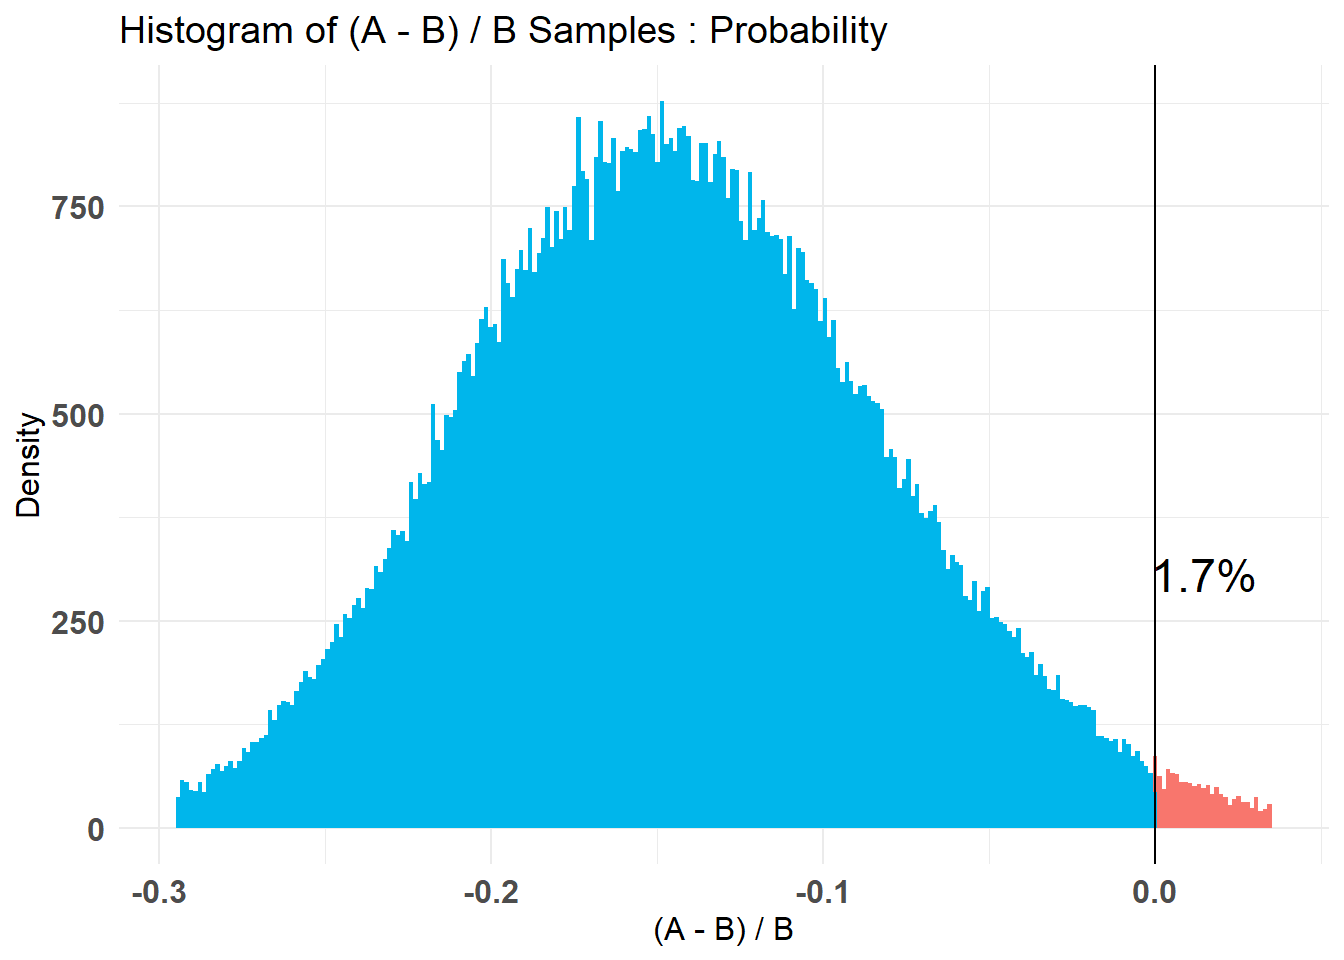
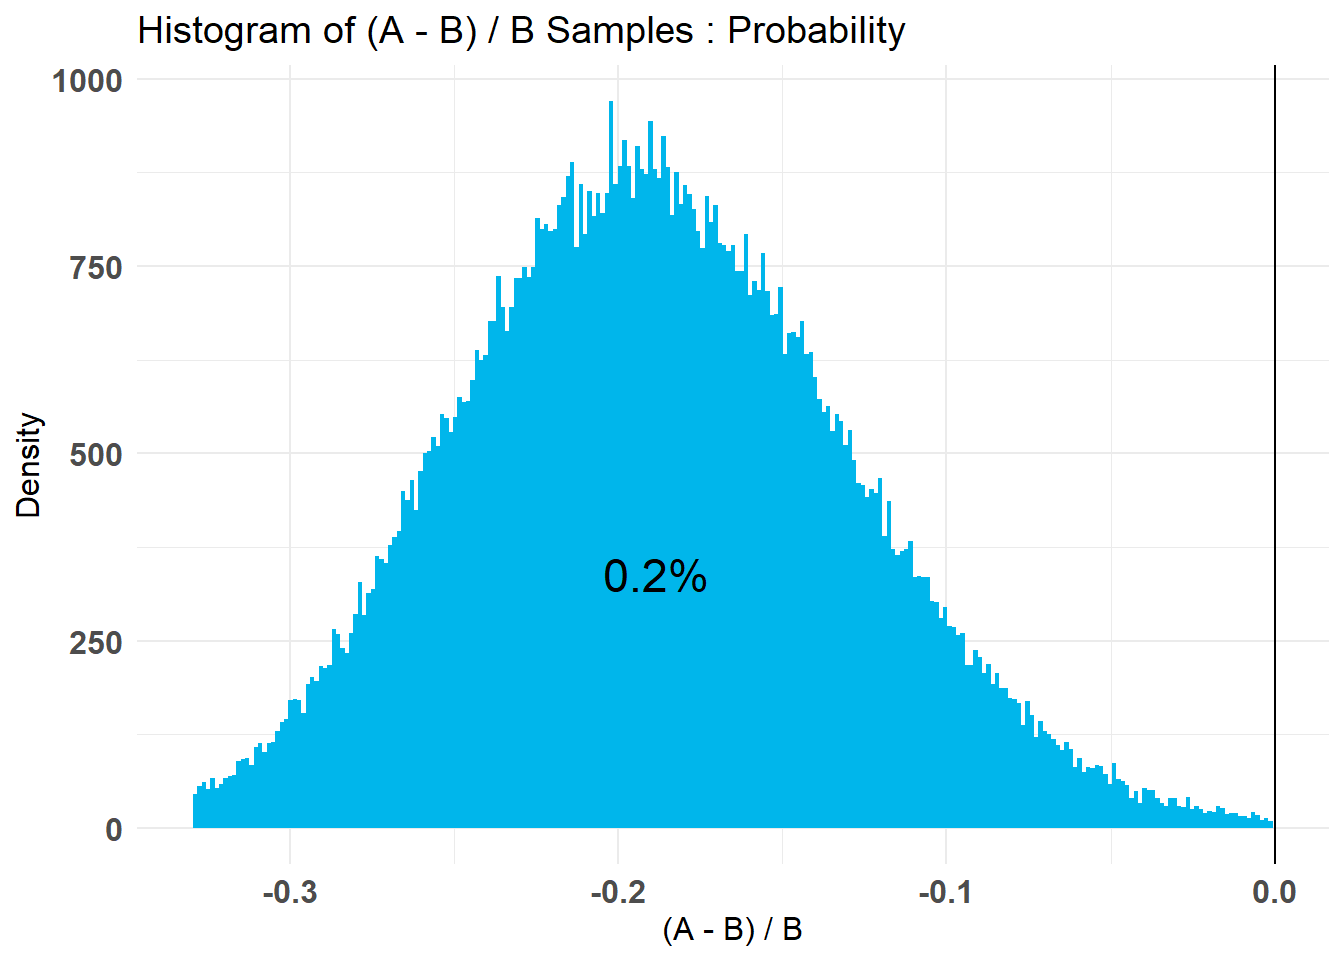
Atualizações

diff --git a/RegressaodoComPrincipal.html b/RegressaodoComPrincipal.html
@@ -437,11 +437,41 @@ div.tocify {
 
 
 <hr />
-<div id="resumo" class="section level1">
-<h1>Resumo</h1>
+<div id="resumo" class="section level2">
+<h2>Resumo</h2>
 <p>Este tutorial replica o conteúdo presente em Maddala, p. 150-153, 2001, com algumas adaptações.</p>
 <p>O método dos componentes principais é uma das opções para solução deste problema, <a href="https://drsimonj.svbtle.com/ridge-regression-with-glmnet">bem como a regressão ridge</a> que pode ser feita no R ou veja aqui sobre a <a href="https://www.youtube.com/watch?v=CJIfmy2ws68">Regressão Ridge no Eviews:</a></p>
-<p>*Algumas estimativas podem ser diferentes provavelmente pelas omissões de detalhes a este respeito do próprio autor ou pelos métodos empregados pelo uso de diferentes softwares.</p>
+<p><em>Algumas estimativas podem ser diferentes provavelmente pelas omissões de detalhes a este respeito do próprio autor ou pelos métodos empregados pelo uso de diferentes softwares.</em></p>
+<hr />
+</div>
+<div id="introdução" class="section level2">
+<h2>Introdução</h2>
+<p>Algumas ações corretivas podem ser empregadas para a multicolinearidade, mas agora normalmente, elas provocam alterações nos modelos. Possíveis ações corretivas para a multicolinearidade são:</p>
+<ol style="list-style-type: lower-alpha">
+<li>Omitir uma ou mais variáveis independentes altamente correlacionadas e identificar outras para ajudar na previsão:</li>
+</ol>
+<p><em>Advertências</em></p>
+<ul>
+<li><p>Pode causar um erro de especificação ou regressões com poder preditivo baixo.</p></li>
+<li><p>Pode deixar de fora variáveis que são importantes para o estudo</p></li>
+</ul>
+<ol start="2" style="list-style-type: lower-alpha">
+<li>Utilizar o modelo de regressão com variáveis independentes muito correlacionadas apenas para fazer previsões.</li>
+</ol>
+<p><em>Advertências</em></p>
+<ul>
+<li><p>Não tente interpretar os coeficientes de regressão</p></li>
+<li><p>O conjunto de variáveis explicativas pode perder poder explicativo.</p></li>
+</ul>
+<p>E, ainda:</p>
+<ol start="3" style="list-style-type: lower-alpha">
+<li><p>Utilizar as correlações simples para compreender a relação entre variáveis dependentes e independentes</p></li>
+<li><p>Usar informação <em>a priori</em> sobre o valor da estimativa dos parâmetros obtida de estudos prévios, prevenindo que o pesquisador aceita parâmetros incorretos.</p></li>
+<li><p>Transformar a relação funcional (por exemplo, elevando as variáveis ao quadrado ou extraindo o logaritmo).</p></li>
+<li><p>Utilizar o método de seleção de variáveis stepwise</p></li>
+<li><p>Verificar a existência de <em>outliers</em></p></li>
+<li><p>Aumentar o tamanho da amostra.</p></li>
+</ol>
 <hr />
 </div>
 <div id="regressão-do-componente-principal" class="section level1">

diff --git a/TesteABnoR.html b/TesteABnoR.html
@@ -465,7 +465,7 @@ div.tocify {
 </table>
 <p><em>Hipótese nula</em>: suposição de que não há diferença entre as taxas de conversão dos produtos A e B</p>
 <p><em>Hipótese alternativa</em>: há uma diferença entre as taxas de conversão dos produtos A e B</p>
-<p>Para rejeitar a hipótese nula, precisamos de um valor-<span class="math inline">\(p\)</span> menor que o nível de significância, ou seja, p$ &lt;0,05$</p>
+<p>Para rejeitar a hipótese nula, precisamos de um valor- <em>p</em> menor que o nível de significância, ou seja, <em>p</em> <span class="math inline">\(&lt;0,05\)</span></p>
 <pre class="r"><code>#install.packages(&quot;pwr&quot;)
 library(pwr)
  
@@ -542,7 +542,7 @@ AB2 &lt;- bayesTest (A_binom, B_binom,
 ## Min.    0.00000000 0.00000000
 ## 1st Qu. 0.00000000 0.00000000
 ## Median  0.00000000 0.00000000
-## Mean    0.06463768 0.07766667
+## Mean    0.06347826 0.08233333
 ## 3rd Qu. 0.00000000 0.00000000
 ## Max.    1.00000000 1.00000000
 ## --------------------------------------------
@@ -566,11 +566,11 @@ AB2 &lt;- bayesTest (A_binom, B_binom,
 ## $Probability
 ## $Probability$A
 ##         0%        25%        50%        75%       100% 
-## 0.06611784 0.08301421 0.08608761 0.08919908 0.10605996 
+## 0.06703067 0.08196848 0.08499158 0.08809637 0.10592758 
 ## 
 ## $Probability$B
-##         0%        25%        50%        75%       100% 
-## 0.07792513 0.09728992 0.10079826 0.10440269 0.12429006 
+##        0%       25%       50%       75%      100% 
+## 0.0818170 0.1014902 0.1050494 0.1086751 0.1303051 
 ## 
 ## 
 ## --------------------------------------------
@@ -578,7 +578,7 @@ AB2 &lt;- bayesTest (A_binom, B_binom,
 ## P(A &gt; B) by (0)%: 
 ## 
 ## $Probability
-## [1] 0.01709
+## [1] 0.00228
 ## 
 ## --------------------------------------------
 ## 
@@ -586,14 +586,14 @@ AB2 &lt;- bayesTest (A_binom, B_binom,
 ## 
 ## $Probability
 ##          5%         95% 
-## -0.24549047 -0.03449407 
+## -0.28391266 -0.08672196 
 ## 
 ## --------------------------------------------
 ## 
 ## Posterior Expected Loss for choosing B over A:
 ## 
 ## $Probability
-## [1] 0.1750507</code></pre>
+## [1] 0.2394301</code></pre>
 <p>O resumo fornece o intervalo crível. Os intervalos bayesianos tratam seus limites como fixos e o Parâmetro estimado como uma variável aleatória, enquanto os intervalos de confiança freqüentistas tratam seus limites como variáveis aleatórias e parâmetros como o valor fixo.</p>
 <p>Também mostra que <span class="math inline">\(p(A&gt; B)\)</span> é de 0,00068%. Portanto, B é muito melhor que A. E a perda posterior esperada para escolher B sobre A é baixa.</p>
 <pre class="r"><code>plot (AB2)</code></pre>

diff --git a/index.html b/index.html
@@ -367,7 +367,7 @@ $(document).ready(function () {
 </div>
 <div id="avaliando-as-melhores-estadias-do-airbnb-no-r" class="section level3">
 <h3><em>Avaliando as melhores estadias do Airbnb no R</em></h3>
-<p><small>(ler o pdf (feito em <span class="math inline">\(\LaTeX\)</span>) no repositório)</small></p>
+<p><small>(<a href="https://github.com/rhozon/R-para-estudantes-de-marketing/raw/master/R_para_estudantes_de_marketing.pdf">ler o e-book traduzido (feito em <span class="math inline">\(\LaTeX\)</span>) no repositório</a>)</small></p>
 <ul>
 <li>Neste tutorial faremos uma análise preliminar comparativa dos dados do Airbnb com o R, avaliando alguns grupos e classificações das características das acomodações disponíveis.</li>
 </ul>
